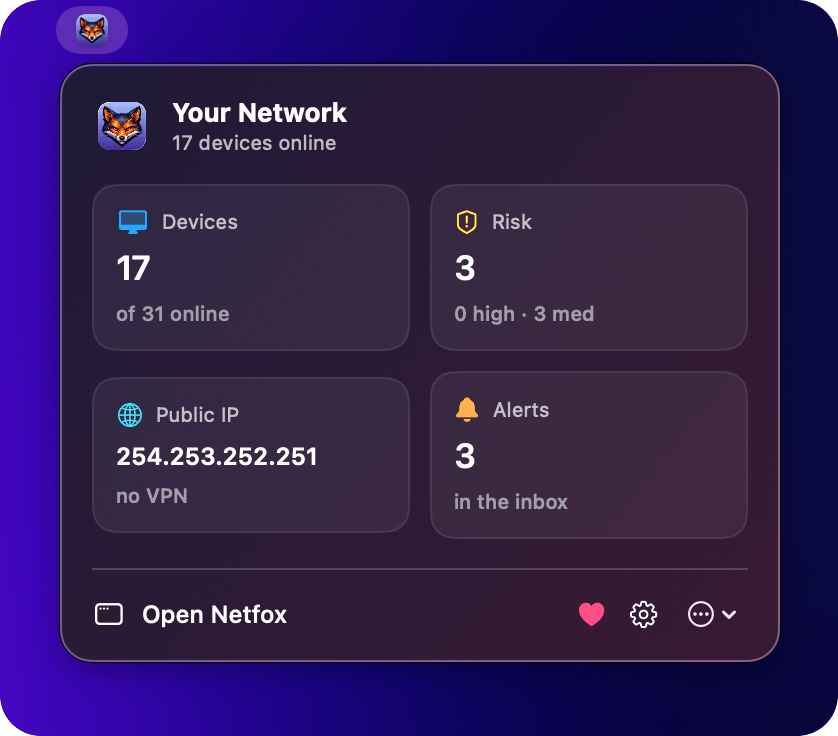
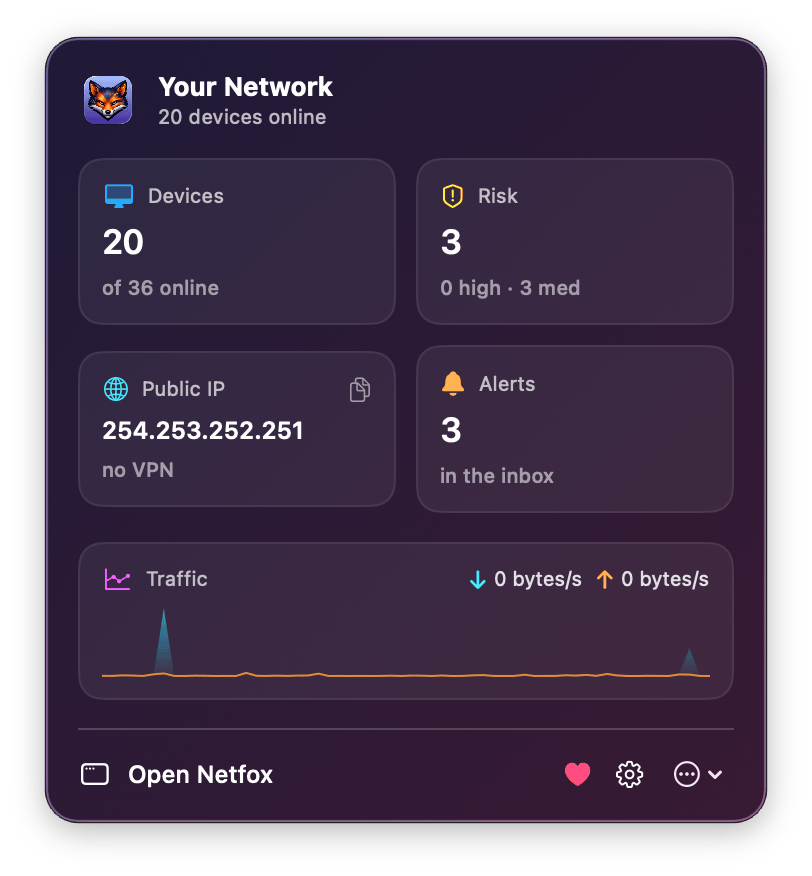
feat(sparkle): publish Netfox v0.5.0 to appcast

diff --git a/public/release-notes/0.5.0.html b/public/release-notes/0.5.0.html
@@ -1,0 +1,95 @@
+<!DOCTYPE html>
+<html lang="en">
+<head>
+<meta charset="utf-8">
+<meta name="viewport" content="width=device-width, initial-scale=1">
+<title>Netfox 0.5.0 — Release Notes</title>
+<style>
+  :root {
+    color-scheme: light dark;
+    --bg: #ffffff;
+    --fg: #1a1a1a;
+    --accent: #f76707;
+    --muted: #6b6b73;
+    --code-bg: #f4f4f5;
+    --border: rgba(0,0,0,0.12);
+  }
+  @media (prefers-color-scheme: dark) {
+    :root {
+      --bg: #1c1c1e;
+      --fg: #ececec;
+      --muted: #9c9ca5;
+      --code-bg: #2c2c2e;
+      --border: rgba(255,255,255,0.14);
+    }
+  }
+  * { box-sizing: border-box; }
+  body {
+    font: 14px/1.55 -apple-system, BlinkMacSystemFont, "SF Pro Text", "Helvetica Neue", sans-serif;
+    color: var(--fg);
+    background: var(--bg);
+    margin: 0 auto;
+    padding: 20px 24px 40px;
+    max-width: 720px;
+  }
+  header.page-header {
+    border-bottom: 1px solid var(--border);
+    padding-bottom: 14px;
+    margin-bottom: 22px;
+  }
+  header.page-header h1 { font-size: 1.7em; margin: 0 0 4px; letter-spacing: -0.02em; }
+  header.page-header .subtitle { color: var(--muted); margin: 0; font-size: 0.92em; }
+  h1, h2, h3, h4 { letter-spacing: -0.01em; margin: 1.5em 0 0.5em; }
+  h1 { font-size: 1.4em; }
+  h2 { font-size: 1.2em; }
+  h3 { font-size: 1em; }
+  a { color: var(--accent); }
+  hr { border: 0; border-top: 1px solid var(--border); margin: 22px 0; }
+  ul, ol { padding-left: 1.4em; }
+  li { margin: 4px 0; }
+  code {
+    font: 0.9em ui-monospace, "SF Mono", Menlo, Consolas, monospace;
+    background: var(--code-bg);
+    padding: 1px 5px;
+    border-radius: 3px;
+  }
+  pre {
+    background: var(--code-bg);
+    padding: 12px 14px;
+    border-radius: 6px;
+    overflow-x: auto;
+    font-size: 0.88em;
+  }
+  pre code { background: transparent; padding: 0; font-size: 1em; }
+  blockquote {
+    margin: 12px 0;
+    padding-left: 12px;
+    border-left: 3px solid var(--border);
+    color: var(--muted);
+  }
+  table { border-collapse: collapse; width: 100%; margin: 12px 0; font-size: 0.95em; }
+  th, td { border: 1px solid var(--border); padding: 6px 10px; text-align: left; }
+  th { background: var(--code-bg); }
+  img { max-width: 100%; }
+</style>
+</head>
+<body>
+<header class="page-header">
+  <h1>Netfox 0.5.0</h1>
+  <p class="subtitle">Release notes</p>
+</header>
+<p>Netfox 0.5.0 makes the menu bar the place your network lives — live traffic, an adaptive icon, always-fresh data — and lets the Security scanner check the ports <em>you</em> care about.</p>
+<h2>🔍 Custom ports</h2>
+<p>The port scanner has always walked a curated catalog of well-known ports. Now you can extend it: add your own TCP ports in <strong>Settings → Security → Custom ports</strong>, with optional labels (<code class="notranslate">9281 = Next.js dev</code>), and every scan — manual or scheduled — checks them too. Your labels show up everywhere: the device detail panel (in their own "Custom" section), the Services view, and alerts. Invalid entries are simply ignored, with a live caption confirming what registered. Changes apply from the next scan, no restart.</p>
+<h2>📈 Live traffic in the menu bar</h2>
+<p>The popover now charts your Mac's network throughput over the last minute — download as a filled curve, upload as a line, with live readouts. Sampling runs for the whole life of the app, so the chart opens already filled with history. No special permissions needed.</p>
+<h2>🦊 Pick your menu bar icon</h2>
+<p>A new monochrome fox glyph is now the default menu bar mark — it adapts to light and dark menu bars and inverts correctly when the popover is open, like the system's own status icons. Prefer the colour fox? Switch back in <strong>Settings → General → Appearance</strong>; the change applies instantly.</p>
+<h2>⚡ Always-fresh popover</h2>
+<p>Device discovery now starts with the app and runs for its whole life — not just while a window is open. With the main window closed for days, the popover still shows the network as it is right now. The Public IP card also gained a one-click copy button.</p>
+<h2>❤ About + Support</h2>
+<p>A new About + Support window brings together the version info, quick links (website, documentation, release notes, issue reporting), the project's sponsors, and other apps from the same developer. It opens from the app menu, Settings → About, or at launch — with a one-click opt-out if you'd rather it didn't.</p>
+<h2>🗺 Roadmap note</h2>
+<p>This release shipped ahead of the planned Wi-Fi diagnostics work, so the module wave shifts by one: Wi-Fi diagnostics is now planned for v0.6, link diagnostics for v0.7, and the bandwidth monitor for v0.8. The <a href="https://netfox.app/docs/roadmap" rel="nofollow">roadmap</a> reflects the new order.</p>
+</body>
+</html>

diff --git a/config/index.ts b/config/index.ts
@@ -85,7 +85,7 @@ export default {
     defaultLanguage: 'en',
   },
   app: {
-    version: '0.4.2',
+    version: '0.5.0',
     minMacOS: '15.0',
     downloadUrl: 'https://github.com/gfazioli/netfox-website/releases/latest',
   },
